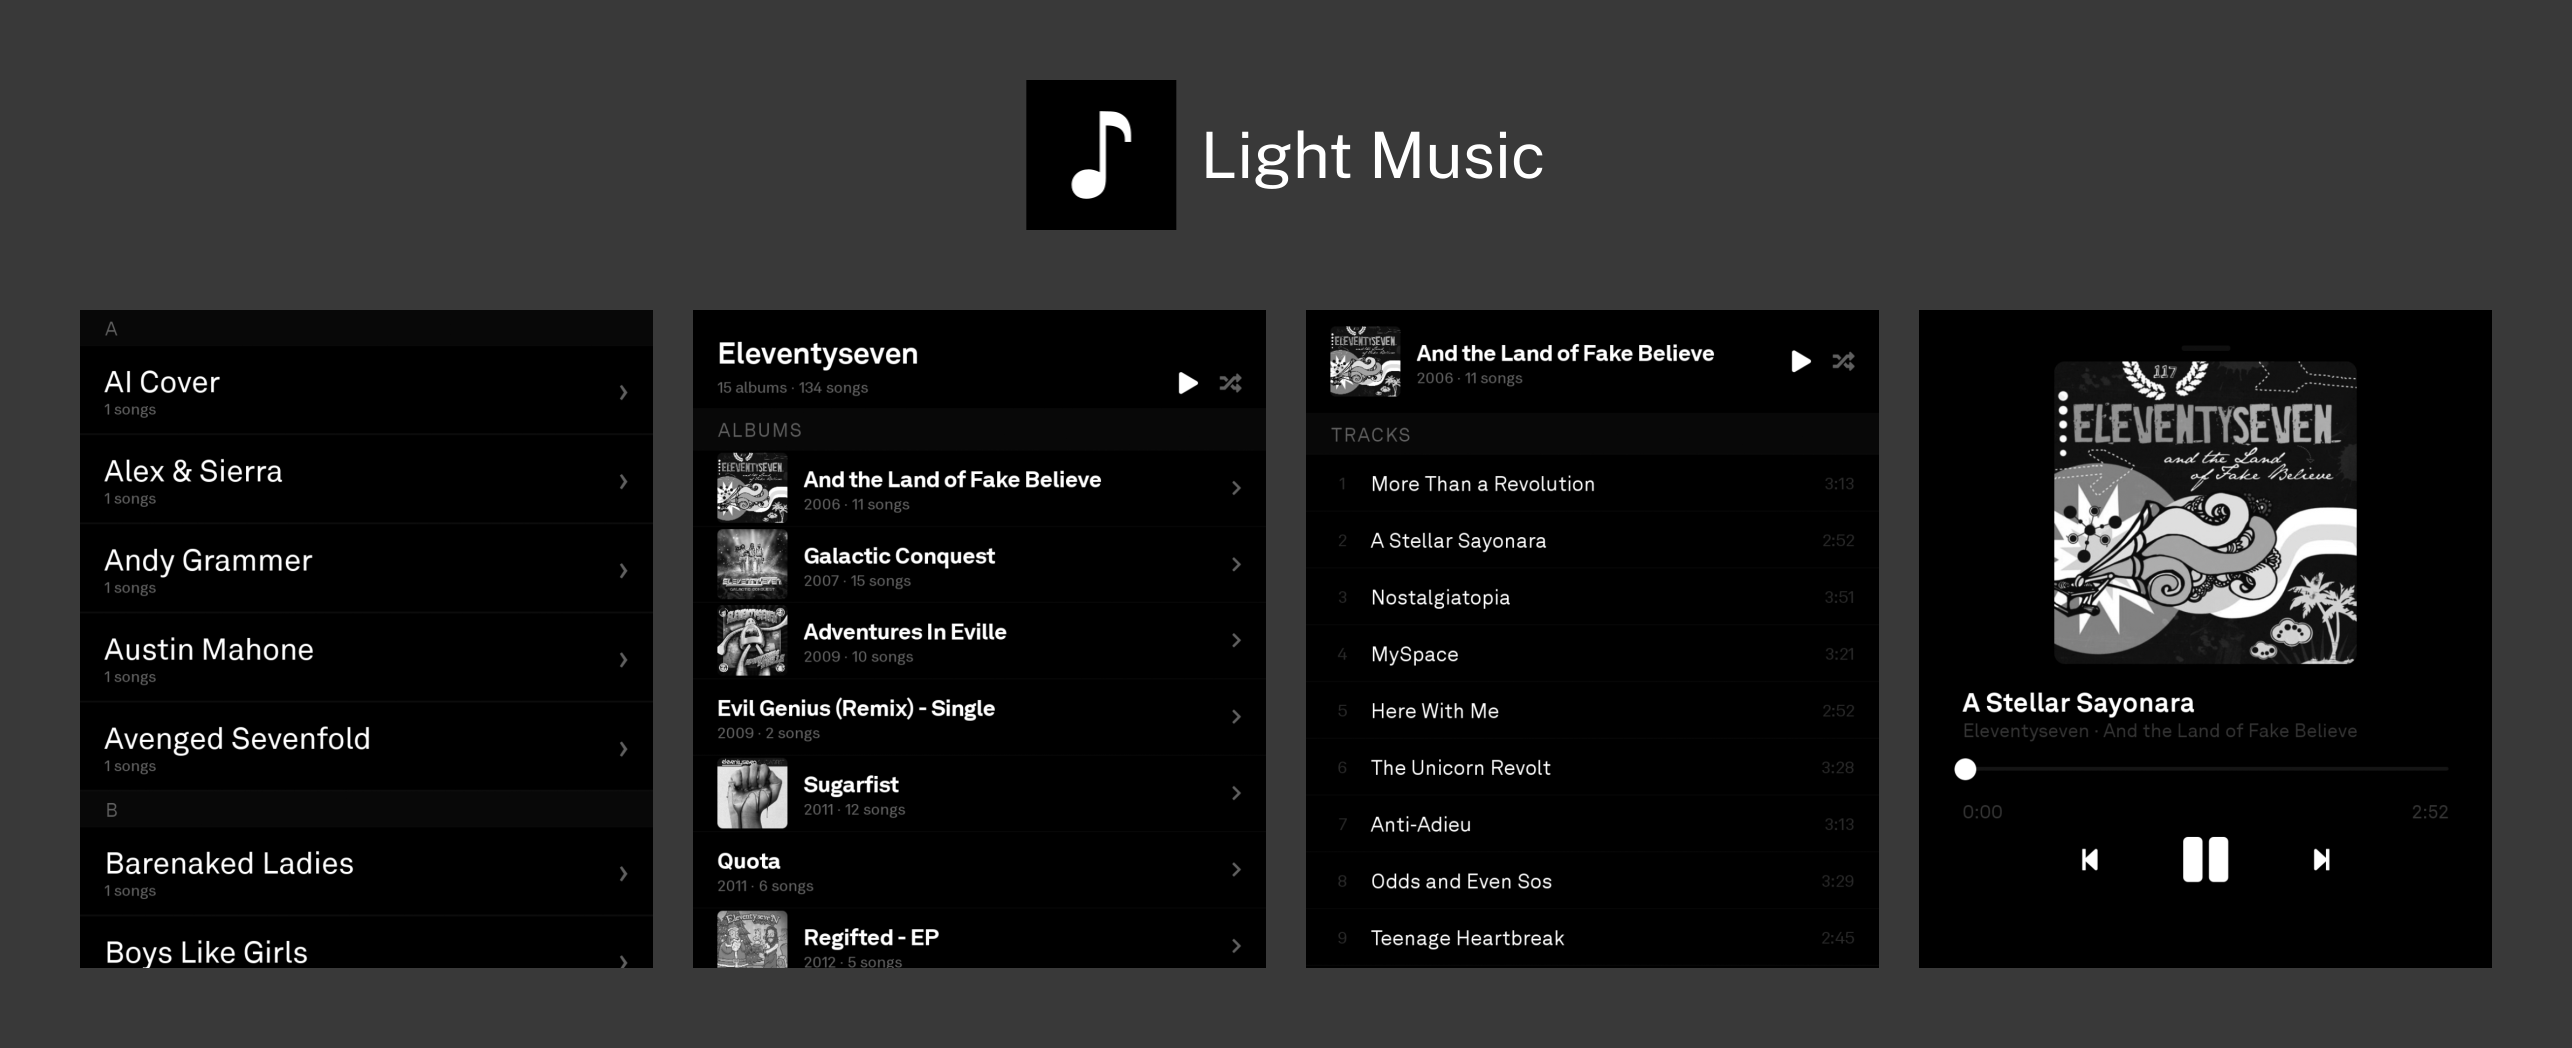
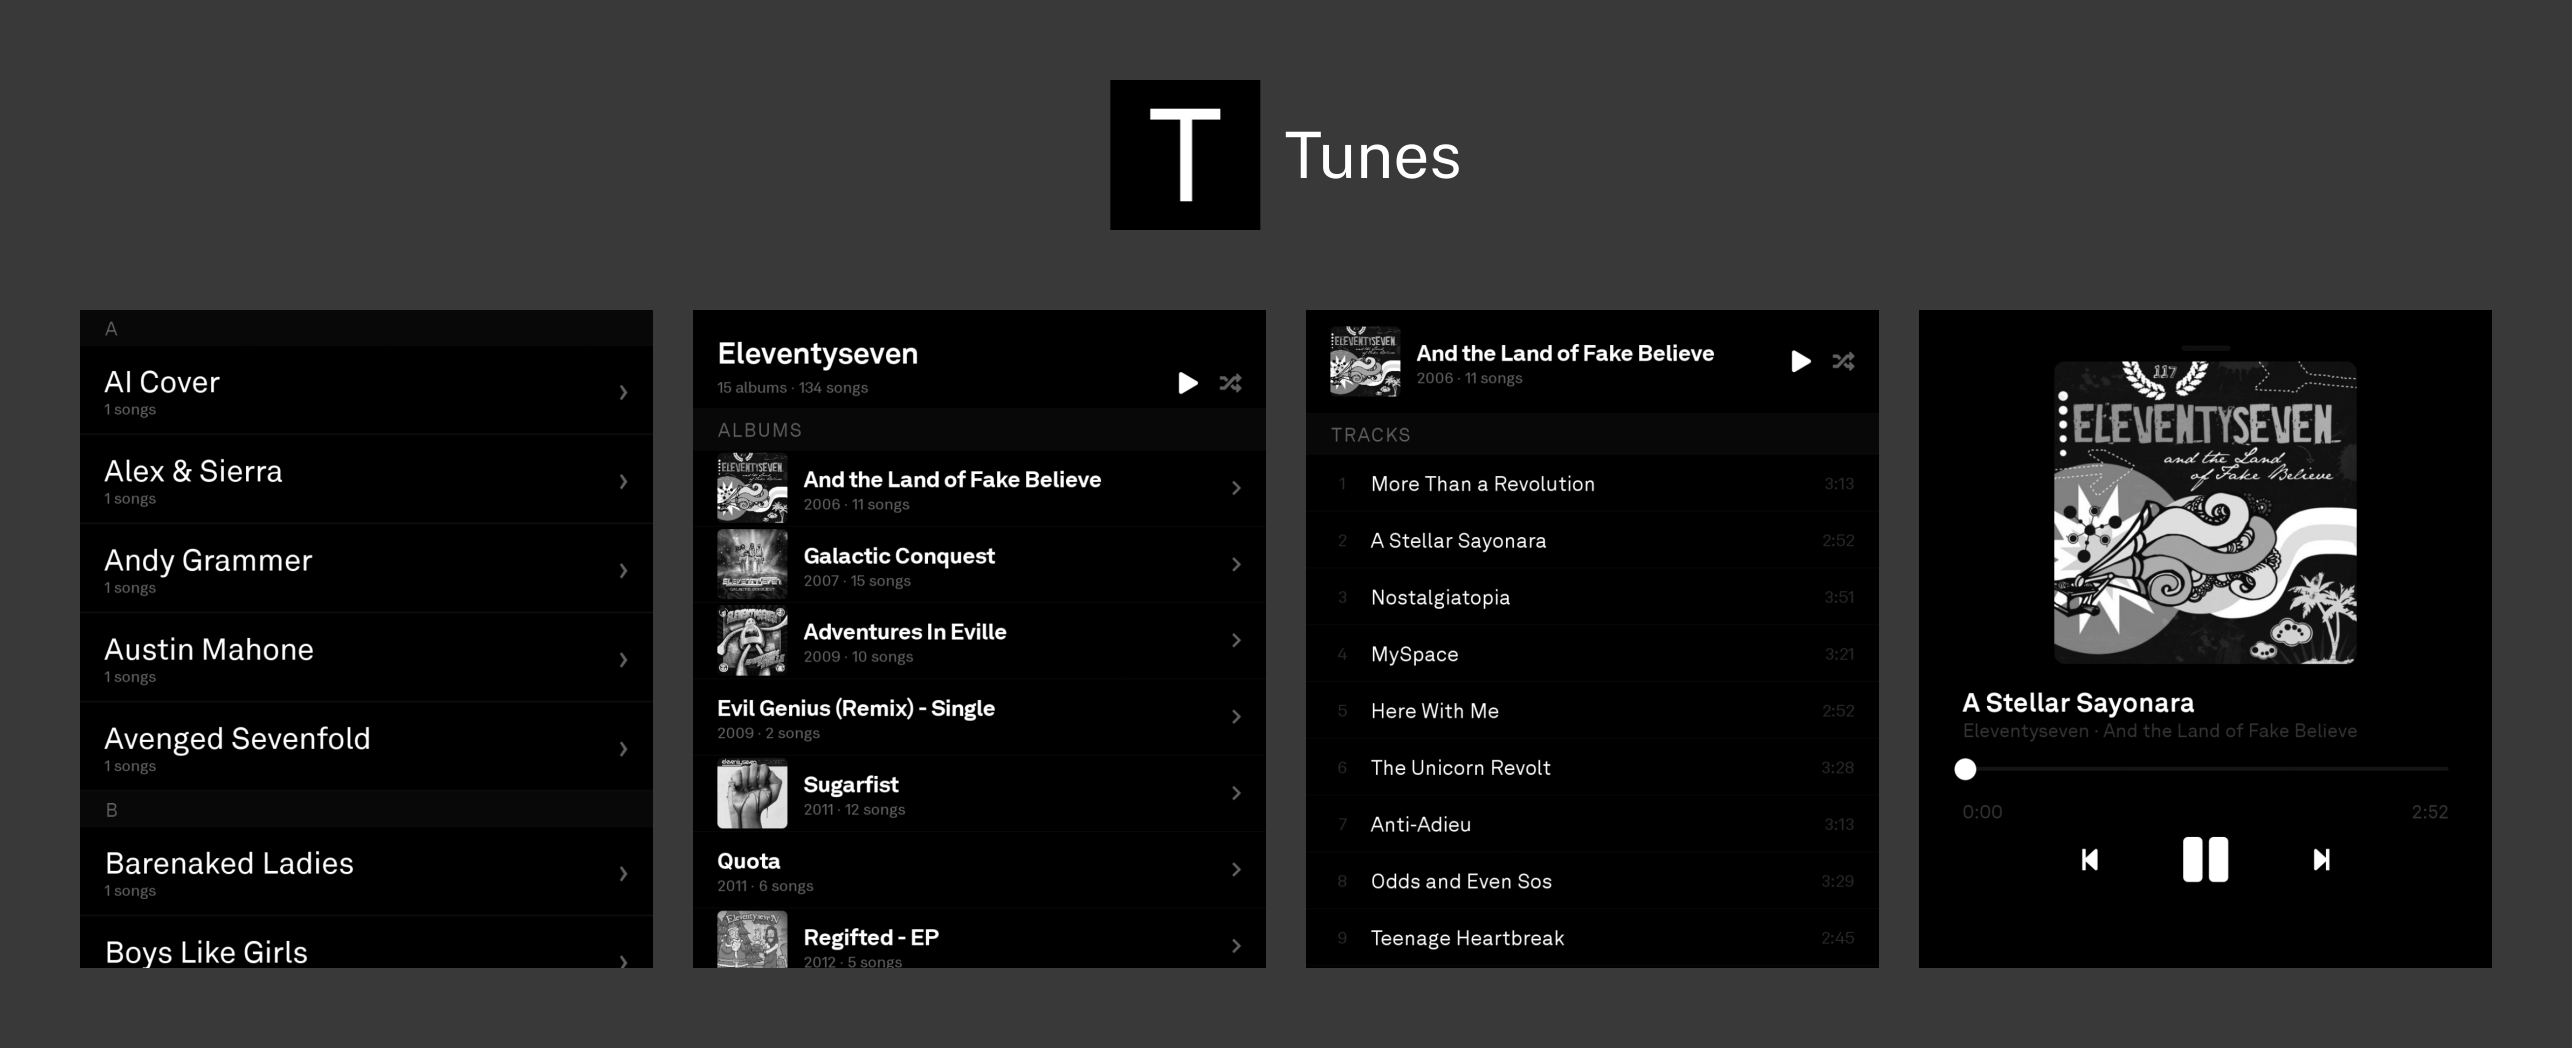
update readme images

Changed region(s): [[0.3733, 0.0611, 0.591, 0.2443]]

diff --git a/scripts/generate-icon.js b/scripts/generate-icon.js
@@ -7,7 +7,7 @@ registerFont(fontPath, { family: "PublicSans" });
 
 const appConfig = JSON.parse(fs.readFileSync("app.json", "utf8"));
 const appName = appConfig.expo.name;
-const firstLetter = '♪';
+const firstLetter = appName.charAt(0).toUpperCase();
 
 const size = 100;
 const canvas = createCanvas(size, size);
@@ -17,10 +17,9 @@ ctx.fillStyle = "black";
 ctx.fillRect(0, 0, size, size);
 
 ctx.fillStyle = "white";
-ctx.font = "bold 85.4px Ariel";
+ctx.font = "85.4px PublicSans";
 ctx.textAlign = "center";
 ctx.textBaseline = "middle";
-ctx.translate(0,5);
 ctx.fillText(firstLetter, size / 2 - 1, size / 2 + 0.5);
 
 const outputPath = path.join(__dirname, "../assets/images/icon.png");

diff --git a/scripts/generate-readme-image.js b/scripts/generate-readme-image.js
@@ -19,7 +19,7 @@ ctx.fillRect(0, 0, width, height);
 const appConfig = JSON.parse(fs.readFileSync("app.json", "utf8"));
 const appName = appConfig.expo.name;
 
-const firstLetter = '♪';
+const firstLetter = appName.charAt(0).toUpperCase();
 const iconSize = 150;
 const iconCanvas = createCanvas(iconSize, iconSize);
 const iconCtx = iconCanvas.getContext("2d");
@@ -28,7 +28,7 @@ iconCtx.fillStyle = "black";
 iconCtx.fillRect(0, 0, iconSize, iconSize);
 
 iconCtx.fillStyle = "white";
-iconCtx.font = "128.1px Arial";
+iconCtx.font = "128.1px PublicSans";
 iconCtx.textAlign = "center";
 iconCtx.textBaseline = "alphabetic";
 const iconMetrics = iconCtx.measureText(firstLetter);
